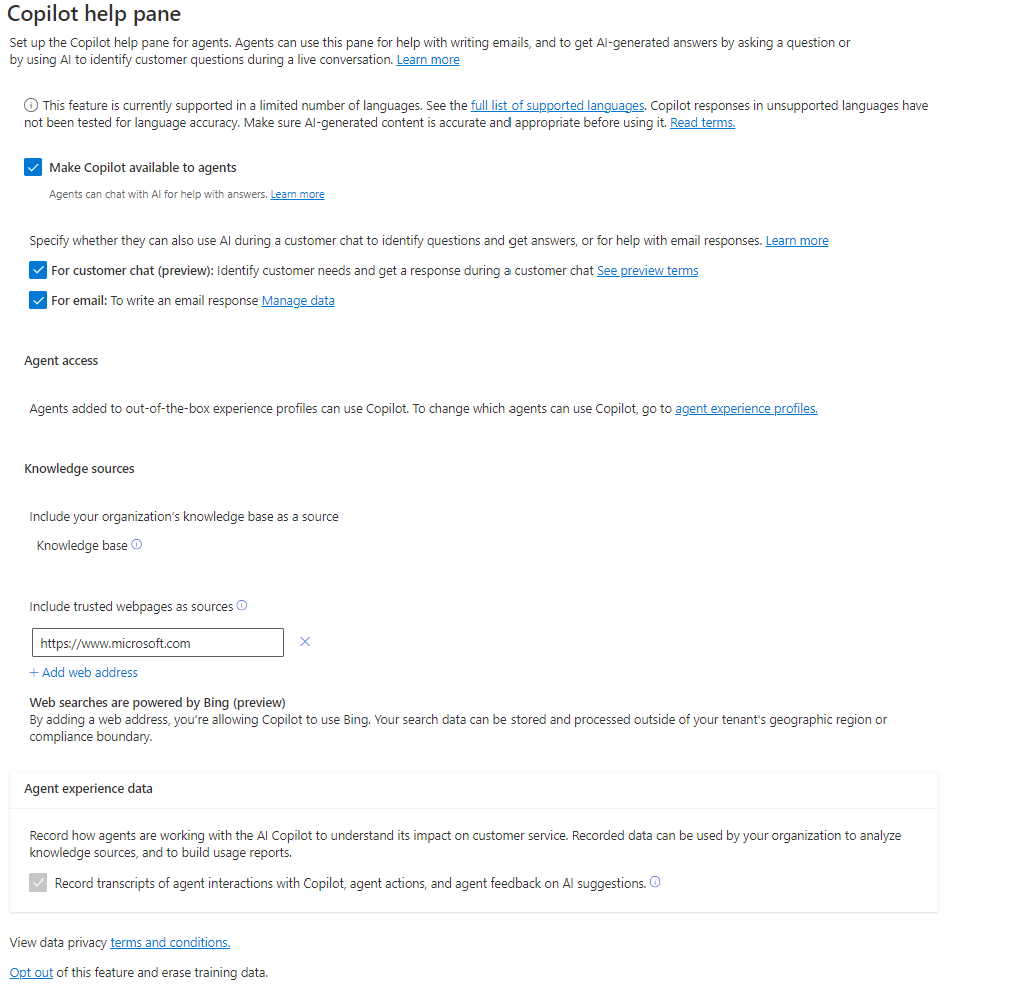
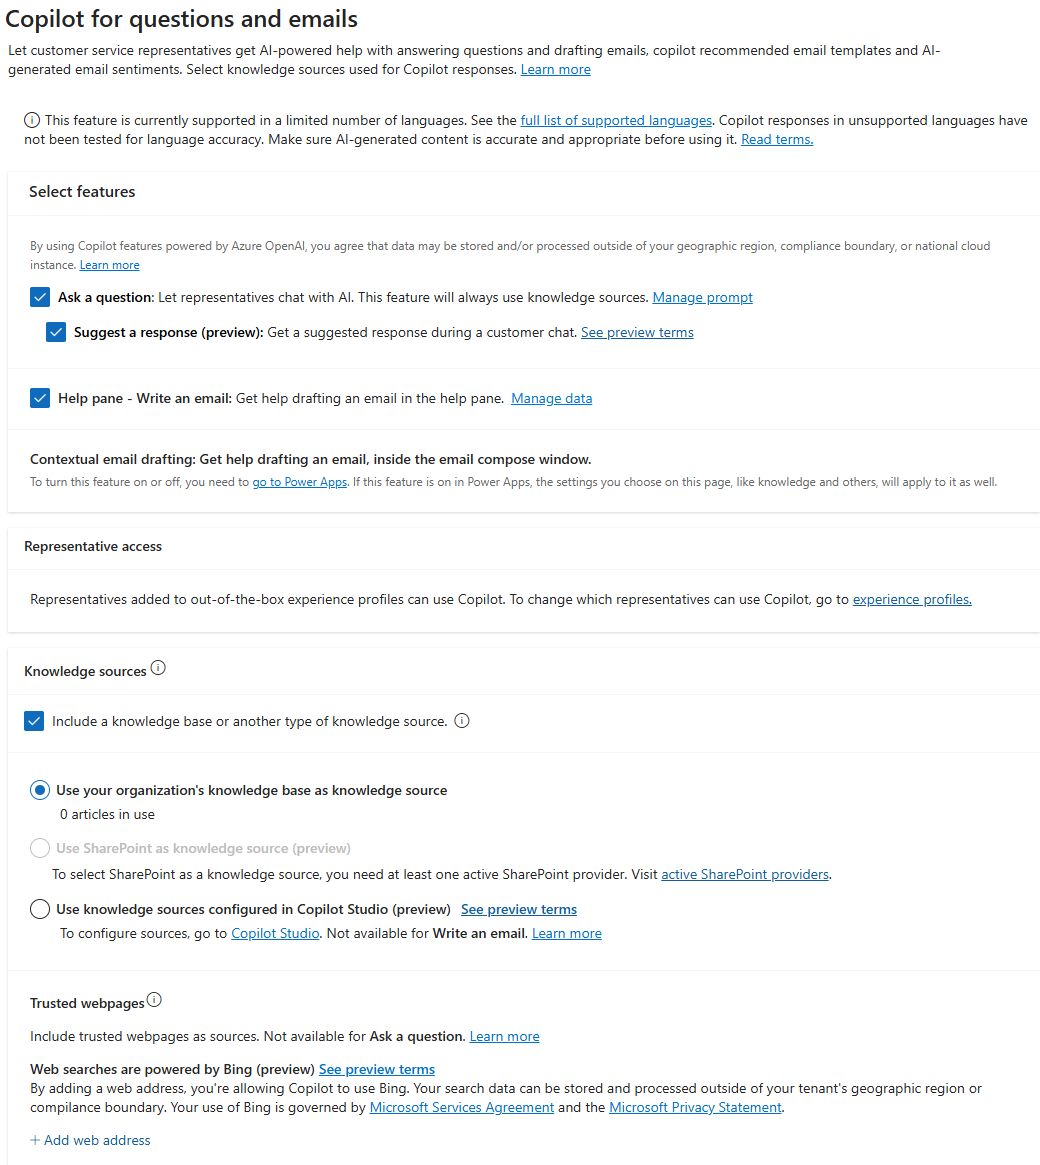
Category: Update Workitem: Task 421581 [DOC]: Update UI references, screenshots in articles affected by the terminology changes in Customer Service, Contact Center pro... Description: Updated UI references in articles affected by terminology changes in CS and CC products.

diff --git a/contact-center/administer/copilot-enable-help-pane.md b/contact-center/administer/copilot-enable-help-pane.md
@@ -6,7 +6,7 @@ ms.author: mgandham
 ms.reviewer: mgandham
 ms.topic: how-to 
 ms.collection: bap-ai-copilot
-ms.date: 04/21/2025
+ms.date: 04/22/2025
 ms.custom: bap-template 
 ---
 
@@ -14,7 +14,7 @@ ms.custom: bap-template
 
 [!INCLUDE[cc-feature-availability-embedded-yes](../includes/cc-feature-availability-embedded-yes.md)]
 
-The Copilot help pane allows customer service representatives (service representatives or representatives) to use Copilot features such as respond to questions, compose an email, and draft a chat response in Contact Center workspace and Customer Service workspace.
+The Copilot help pane allows customer service representatives (service representatives or representatives) to use Copilot features such as respond to questions, compose an email, and draft a chat response in Copilot Service workspace.
 
 ## Prerequisites
 
@@ -25,11 +25,11 @@ The Copilot help pane allows customer service representatives (service represent
 
 ## Enable Copilot assist features
 
-Perform the following steps to enable the Copilot features in Contact Center admin center or Customer Service admin center:
+Perform the following steps to enable the Copilot features in Copilot Service admin center:
 
 1. Use one of the following navigation options:
-      - **Agent Experience** > **Productivity** > **Copilot for questions and email**
-      - **Operations** > **Insights** > **Copilot for questions and email**
+      - **Support Experience** > **Productivity** > **Copilot for questions and email**
+      - **Operations** > **Insights** > **AI feature settings** > **Copilot for questions and email**
 1. Select **Manage** in **Copilot for questions and email**. The **Copilot for questions and email* page appears. You can select the Copilot features you'd like to enable for service representatives on this page.
 
      :::image type="content" source="../media/copilot-admin-email-mini.png" alt-text="Screenshot of ask a question in Copilot pane." lightbox="../media/copilot-admin-email.png":::
@@ -37,15 +37,15 @@ Perform the following steps to enable the Copilot features in Contact Center adm
 
 ## Enable ask a question
 
-Select **Make Copilot available to agents** in the **Copilot for questions and email** page of Customer Service admin center. The **Ask a question** tab on the **Copilot for questions and email** appears when service representatives sign in to Customer Service workspace. Agents can ask questions conversationally, and Copilot answers the questions based on the internal knowledge base sources.
+Select **Make Copilot available to representatives** in the **Copilot for questions and email** page of Copilot Service admin center. The **Ask a question** tab on the **Copilot for questions and email** appears when service representatives sign in to Copilot Service workspace. Representatives can ask questions conversationally, and Copilot answers the questions based on the internal knowledge base sources.
 
 ## Enable proactive prompts in ask a question
 
 Proactive prompting enables service representatives to discover and prompt Copilot effortlessly, without the need for manual typing. This saves the service representative’s time and improves the quality of their overall experience.
 
-You can enable and configure the prompts that appear in the **Ask a question** tab. You can configure the following prompts in Contact Center admin center or Customer Service admin center:
+You can enable and configure the prompts that appear in the **Ask a question** tab. You can configure the following prompts in Copilot Service admin center:
 
-1.	Go to **Agent Experience** > **Productivity** >, and select **Manage** for **Copilot for questions and emails**.
+1.	Go to **Support Experience** > **Productivity** >, and select **Manage** for **Copilot for questions and emails**.
 1.	On the **Copilot for questions and emails** page, select **Ask a question**.
 1. On the **Manage prompt settings** page, select the following as required:
     - **Suggested prompts**
@@ -57,7 +57,7 @@ You can enable and configure the prompts that appear in the **Ask a question** t
 
 [!INCLUDE [preview-banner](~/../shared-content/shared/preview-includes/preview-note-d365.md)]
 
-Select **Suggest a response (preview)** in the **Copilot for questions and email** page of Contact Center admin center or Customer Service admin center. The one-click response generation button appears on both the communication panel for a conversation and on the **Ask a question** tab on the Copilot help pane in Customer Service workspace. Copilot retrieves the context and drafts the response based on the knowledge resources configured for your organization.
+Select **Suggest a response (preview)** in the **Copilot for questions and email** page of Copilot Service admin center. The one-click response generation button appears on both the communication panel for a conversation and on the **Ask a question** tab on the Copilot help pane in Copilot Service workspace. Copilot retrieves the context and drafts the response based on the knowledge resources configured for your organization.
 
 ## Configure knowledge sources
 
@@ -77,13 +77,13 @@ Make sure that you have [knowledge management](/dynamics365/customer-service/adm
 
 Select **Knowledge base** to allow Copilot to use internal knowledge base resources for generating responses. Then information is used for the ask a question and draft an email in the Copilot help pane and rich text editor. By default, this option is disabled.
 
-If you've disabled the knowledge base option, agents can use Copilot to draft an email using the **Suggest a call**, **Request more information**, **Empathize with feedback** and **Custom** prompts.
+If you've disabled the knowledge base option, representatives can use Copilot to draft an email using the **Suggest a call**, **Request more information**, **Empathize with feedback** and **Custom** prompts.
 
 ### Enable knowledge sources configured in Copilot Studio (preview)
 
 [!INCLUDE [preview-banner](~/../shared-content/shared/preview-includes/preview-note-d365.md)]
 
-You can enable customers to integrate various knowledge sources without having to add the content directly into the Dynamics 365 knowledge base. When knowledge sources are added, Copilot can use enterprise data from Power Platform, Dynamics 365 data, websites, and external systems. Knowledge sources allow your agents to provide relevant information and insights for your customers. Learn more in [Enable knowledge sources from Microsoft Copilot Studio (preview)](knowledge-copilot.md).
+You can enable customers to integrate various knowledge sources without having to add the content directly into the Dynamics 365 knowledge base. When knowledge sources are added, Copilot can use enterprise data from Power Platform, Dynamics 365 data, websites, and external systems. Knowledge sources allow your representatives to provide relevant information and insights for your customers. Learn more in [Enable knowledge sources from Microsoft Copilot Studio (preview)](knowledge-copilot.md).
 
 ### Add trusted webpages as sources
 
@@ -99,7 +99,7 @@ Copilot uses articles that are two nodes down the configured domain.
 
 ## Enable translation
 
-Select **Let agents translate responses** to allow service representatives to translate responses generated by Copilot to their preferred language. Agents can choose from a list of languages that your organization has added to Dynamics 365 Customer Service.
+Select **Let representatives translate responses** to allow service representatives to translate responses generated by Copilot to their preferred language. Representatives can choose from a list of languages that your organization has added to Dynamics 365 Customer Service.
 
 ## Set up filters
 
@@ -112,32 +112,32 @@ You can apply the filters in the following sections.
 
 ### Preset filters
 
-Specify filters that are applied by default in the background to filter knowledge base articles. Agents can't see these filters. You can set predefined filters for ask a question and draft a response features as follows:
+Specify filters that are applied by default in the background to filter knowledge base articles. Representatives can't see these filters. You can set predefined filters for ask a question and draft a response features as follows:
  1. Select **Manage Filters** in **Filters**. The **Manage filters** pane appears.
  1. Select **Manage rules** in **Preset filters** for the required feature.
  1. Specify the required conditions for the filter.
  1. Select **Finish editing**.
     
-### Agent filters
+### Representative Filters
 
- Specify the filters that service representatives can apply to further filter and refine Copilot responses. Representatives can see and select or deselect these filters in the Copilot help pane for the ask a question feature.  If a filter isn't configured as an agent filter, it operates in the background and isn't visible to agents.
+ Specify the filters that representatives can apply to further filter and refine Copilot responses. Representatives can see and select or deselect these filters in the Copilot help pane for the ask a question feature. If a filter isn't configured as a representative filter, it operates in the background and isn't visible to representatives.
 
-To configure an agent filter, do the following steps:
-1. Select **Add Filter** for **Agent Filters**.
-1. Specify the required knowledge base field that representatives can use. You can also specify the display name and add the values from the field that the service representative can select.
-1. Turn on the **Filter status** toggle. This toggle must be turned on for the service representative to see the filter.
+To configure a representative filter, do the following steps:
+1. Select **Add Filter** for **Representative Filters**.
+1. Specify the required knowledge base field that representatives can use. You can also specify the display name and add the values from the field that the representative can select.
+1. Turn on the **Filter status** toggle. This toggle must be turned on for the representative to see the filter.
 1. Select **Finish editing**. 
 
 ### Automated filters
 
-Specify the filters that are automatically applied. The service representatives don't need to explicitly set them in the Copilot help pane. To configure automated filters, do the following steps:
+Specify the filters that are automatically applied. The representatives don't need to explicitly set them in the Copilot help pane. To configure automated filters, do the following steps:
 
 1. Select **Add Filter** for **Automated Filters**.
-1. Specify the required knowledge base field and the rules that correspond to the field's value. The filter rule is applied only on the record type the service representatives is currently working on.
+1. Specify the required knowledge base field and the rules that correspond to the field's value. The filter rule is applied only on the record type the representative is currently working on.
 1. Turn on the **Use untagged content if the field value is null** toggle to view all the content if the field value doesn't match the specified value.
-1. Turn on the **Allow agents to view or change this filter** toggle for service representatives to see a visual cue that the automated filter is applied and change the filtering options. Based on your setting, the following actions apply: 
-   - **On**: The application prompts you to create a corresponding agent filter for the same knowledge attribute in **Agent Filters** Representatives then see the filters on the Copilot help pane.
-   -  **Off**: Agents can't see the filter on the Copilot help pane. The filters operate in the background without any service representative notifications.
+1. Turn on the **Allow representatives to view or change this filter** toggle for service representatives to see a visual cue that the automated filter is applied and change the filtering options. Based on your setting, the following actions apply: 
+   - **On**: The application prompts you to create a corresponding representative filter for the same knowledge attribute in **Representative Filters** Representatives then see the filters on the Copilot help pane.
+   -  **Off**: Representatives can't see the filter on the Copilot help pane. The filters operate in the background without any service representative notifications.
 1. Select **Finish editing**.
 
 > [!NOTE]
